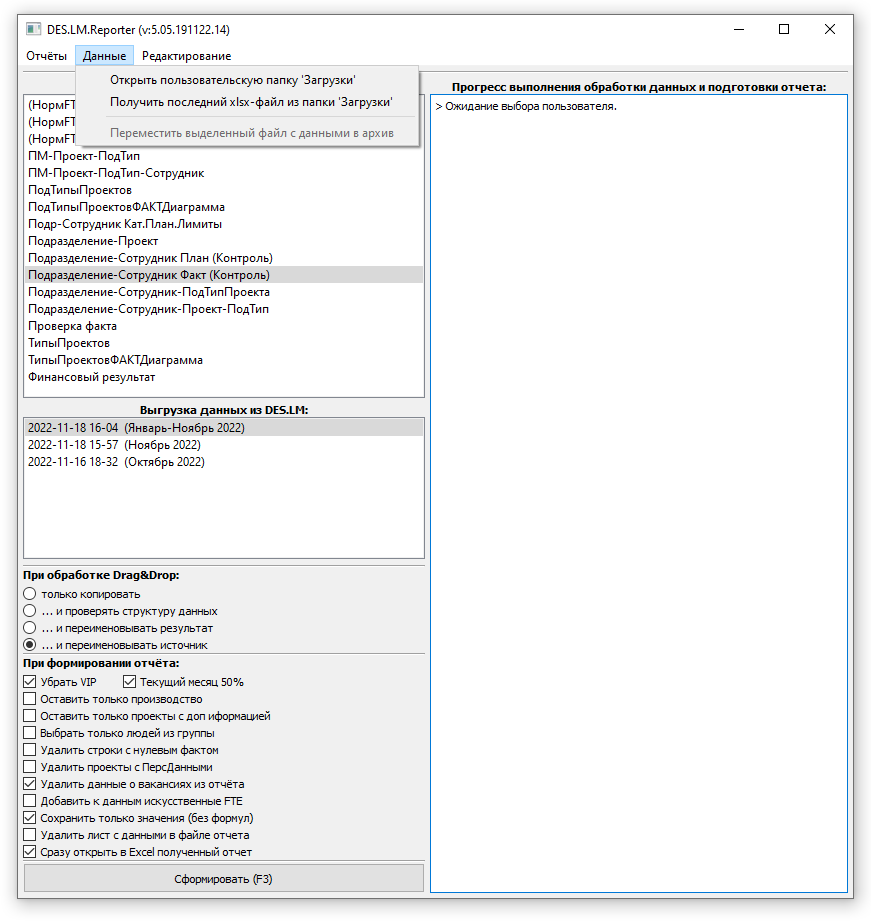
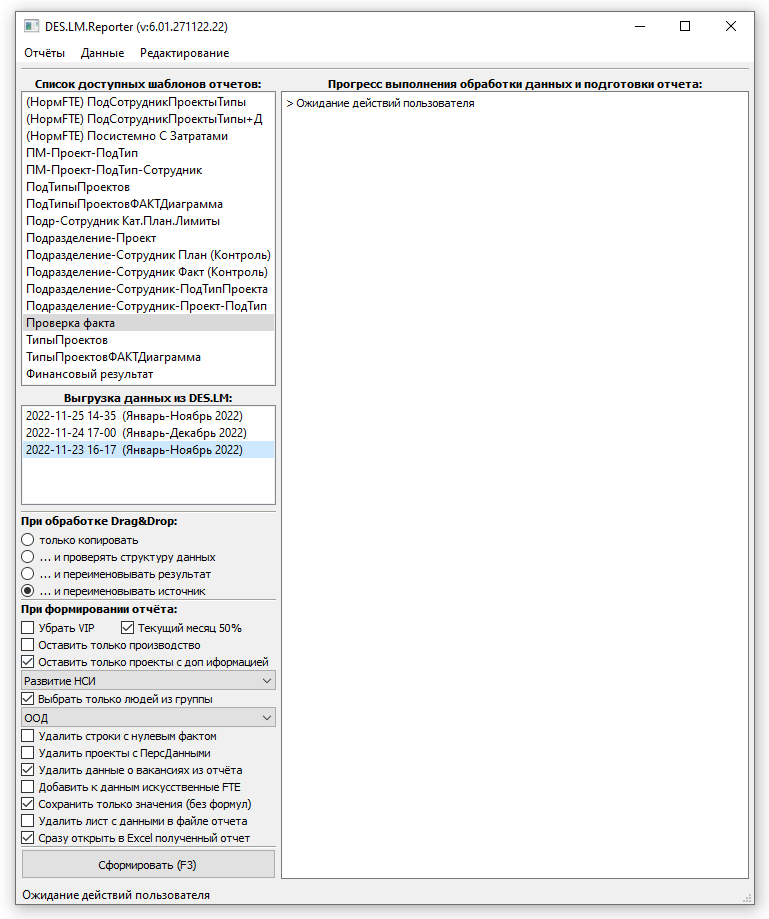
MainForm picture updated.

Changed region(s): [[0.0, 0.0, 0.9987, 1.0], [0.4681, 0.7008, 0.4993, 0.7312]]

diff --git a/myconstants.py b/myconstants.py
@@ -374,4 +374,4 @@ EXCELWINDOWSTATE_MIN = -4140  # Минимизировано
 NUM_ROWS_FOR_HIDE = 300
 NUM_COLUMNS_FOR_HIDE = 150
 
-APP_VERSION = "v:5.063.241122.20"
+APP_VERSION = "v:6.01.271122.22"
